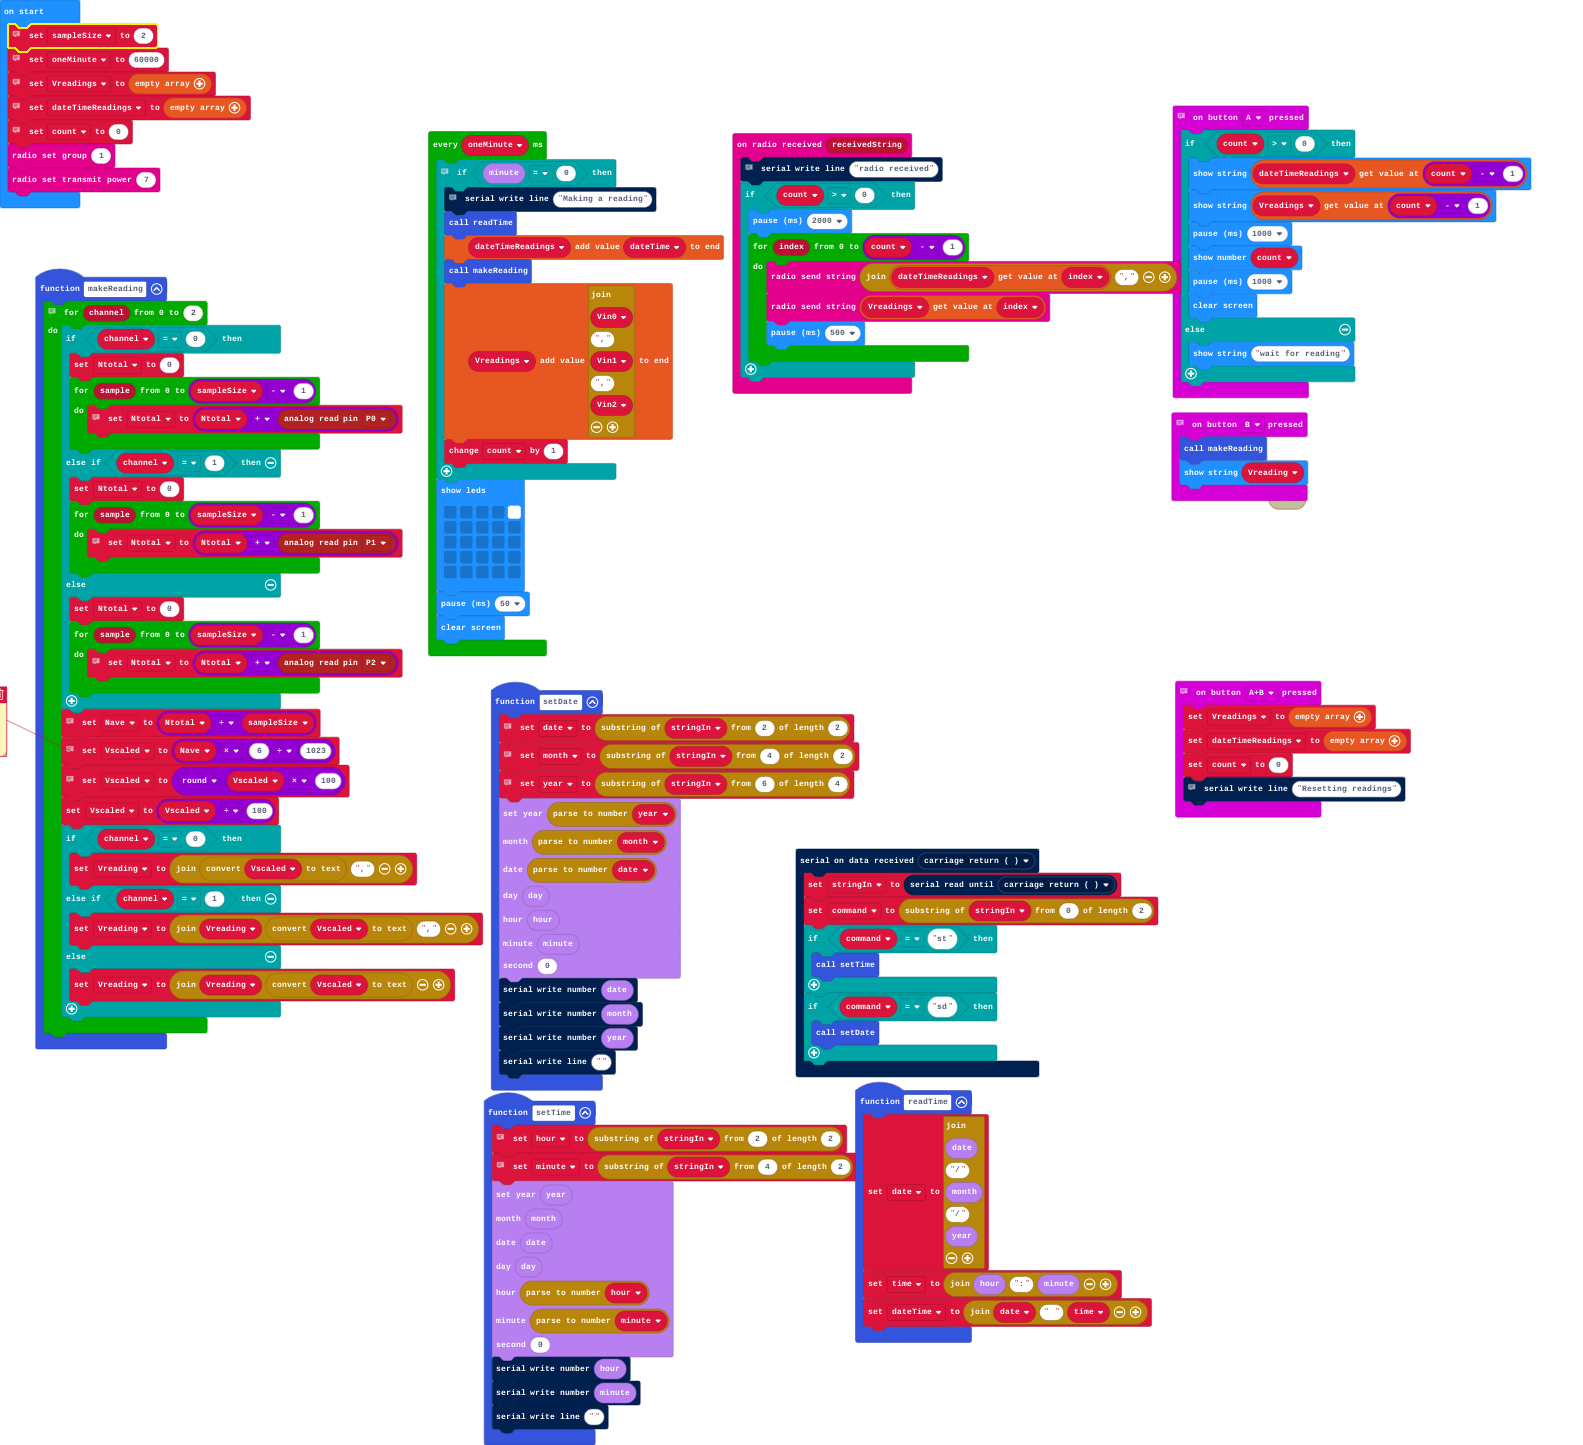
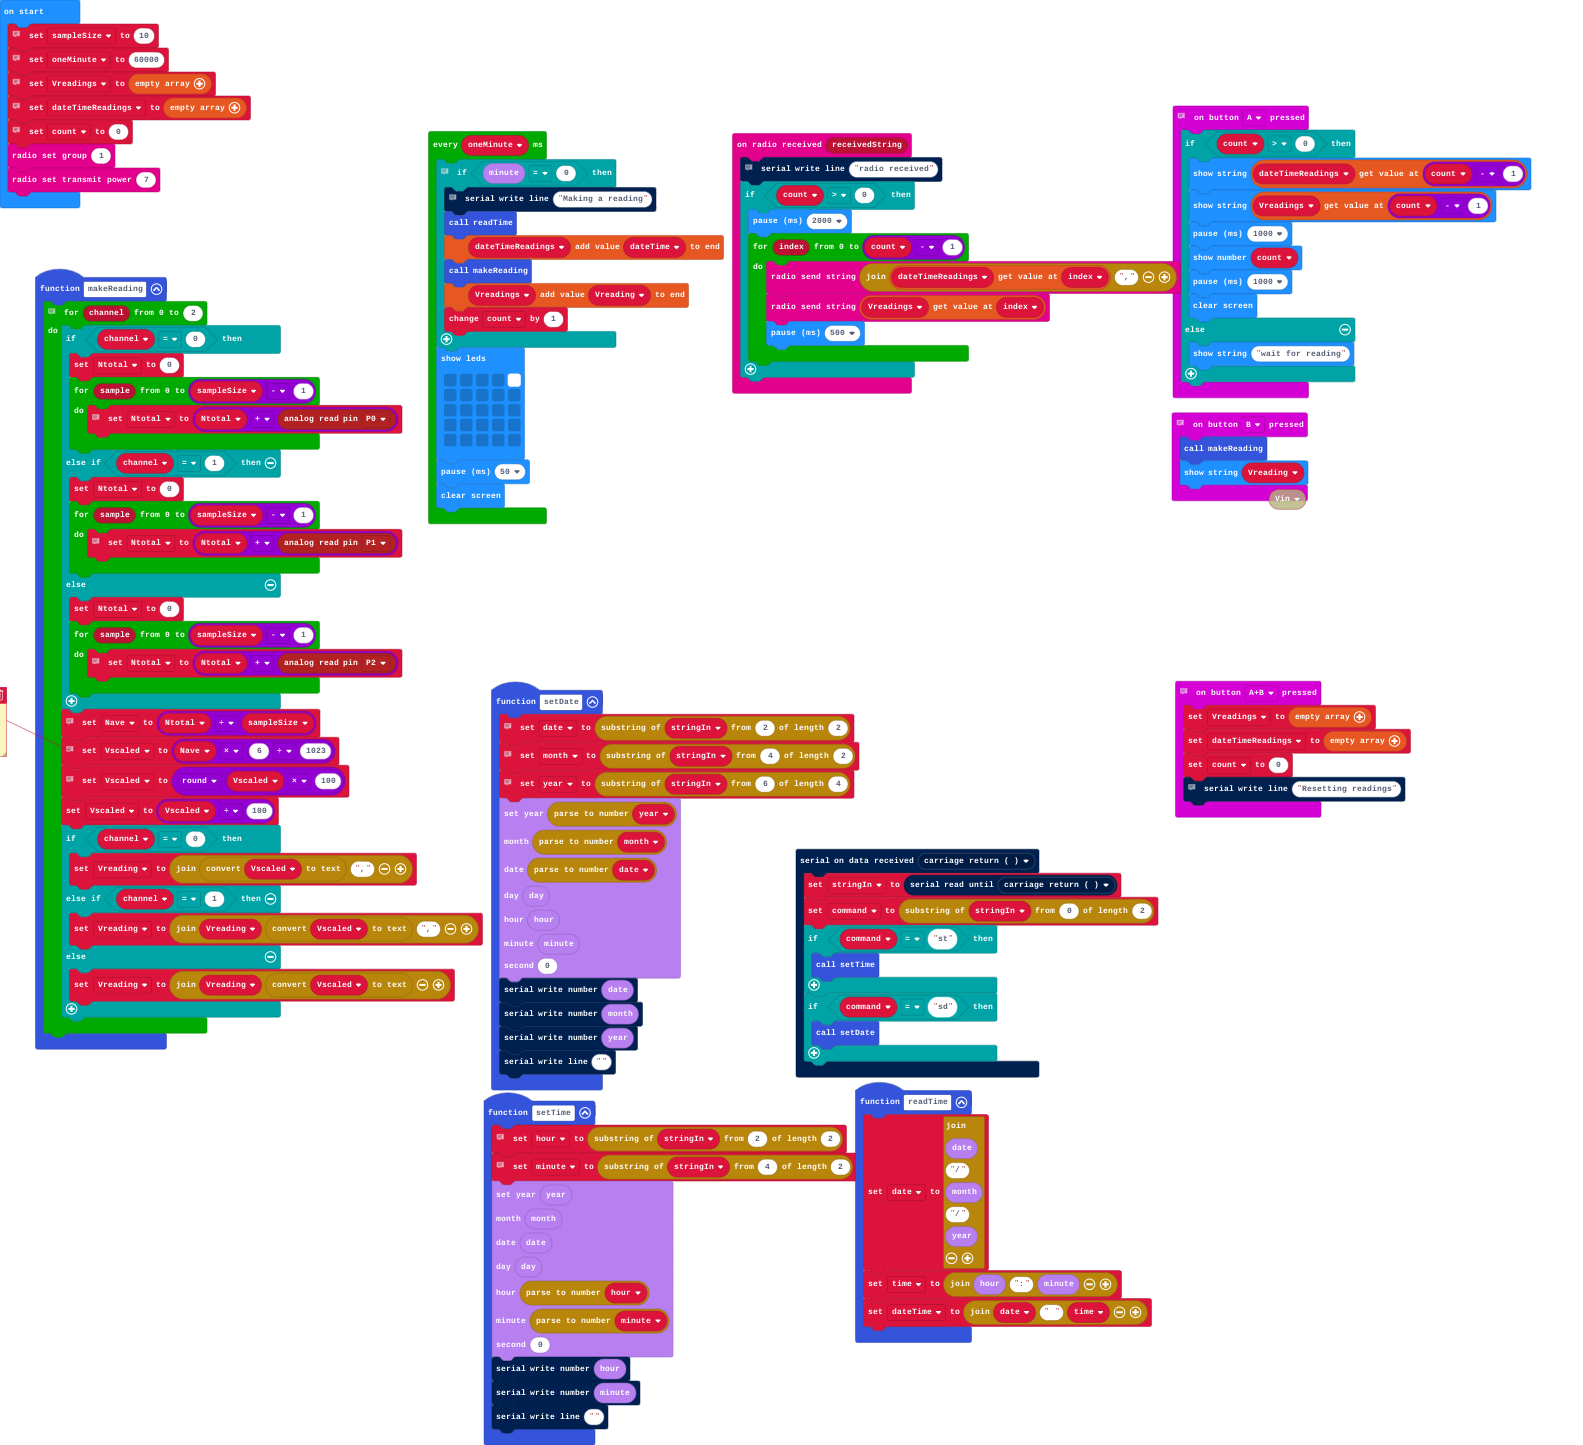
Update main.blocks, main.ts

diff --git a/main.ts b/main.ts
@@ -146,7 +146,7 @@ let dateTimeReadings: string[] = []
 let Vreadings: string[] = []
 let sampleSize = 0
 // Set the number of readings to get the average
-sampleSize = 2
+sampleSize = 10
 // Sampling time interval
 let oneMinute = 60000
 // This is the stored array of ADC voltage readings
@@ -160,15 +160,12 @@ radio.setTransmitPower(7)
 loops.everyInterval(oneMinute, function () {
     // Take readings once per hour
     if (DS3231.minute() == 0) {
-        let Vin2 = 0
-        let Vin1 = 0
-        let Vin0 = 0
         // Debug - make a reading
         serial.writeLine("Making a reading")
         readTime()
         dateTimeReadings.push(dateTime)
         makeReading()
-        Vreadings.push("" + Vin0 + "," + Vin1 + "," + Vin2)
+        Vreadings.push(Vreading)
         count += 1
     }
     basic.showLeds(`
